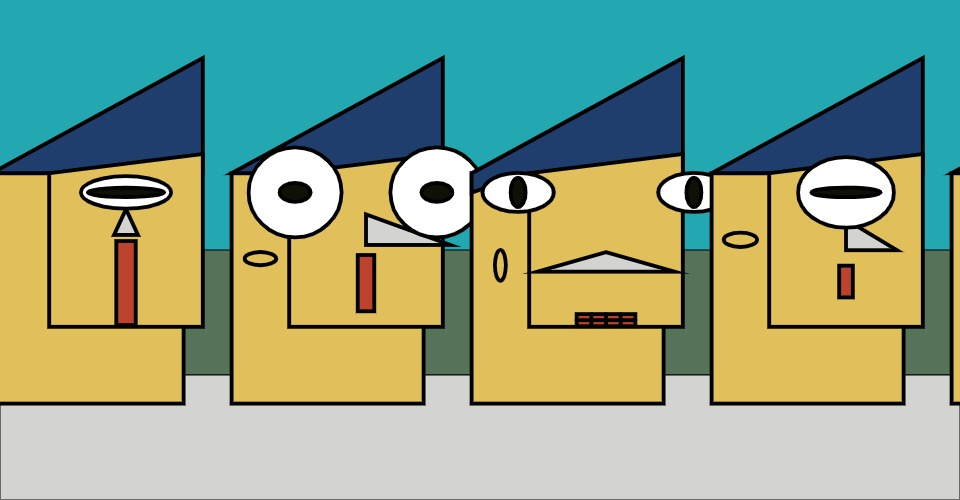
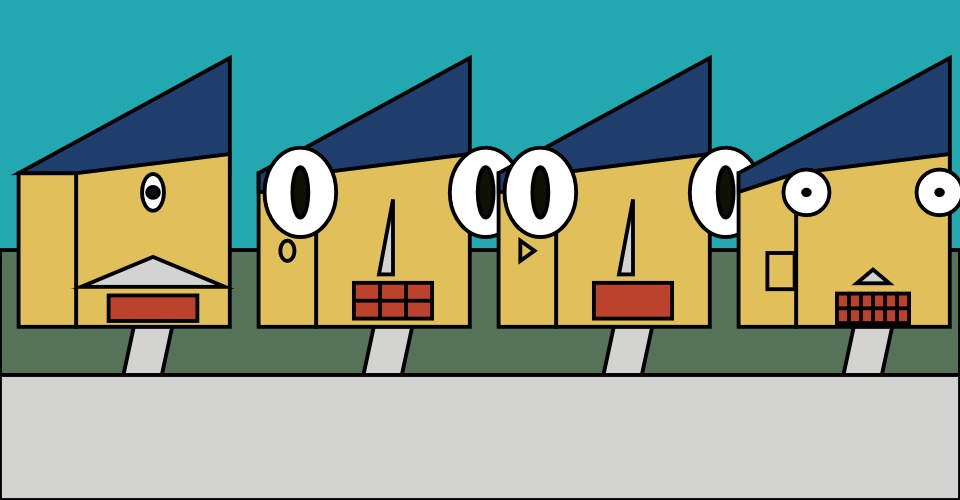
fixed faces having neck bug and added paths

diff --git a/arrangement.js b/arrangement.js
@@ -14,7 +14,9 @@ const millisPerSwap = 3000;
 
 let faceList=[];
 const numberOfFaces=6;
-let scrollSpeed=3;
+const scrollSpeed=3;
+const topOfGrass=canvasHeight/2;
+const topOfRoad=canvasHeight*.75;
 function setup () {
   
   // create the drawing canvas, save the canvas element
@@ -41,15 +43,13 @@ function changeRandomSeed() {
   
   
 }
-function drawBackground(){
-  background(myBgCol);
-  let topOfGrass=height/2;
-  let topOfRoad=height*.75;
-  rectMode(CORNERS);
-  fill(green);
-  rect(0,topOfGrass,canvasWidth,topOfRoad);
-  fill(grey);
-  rect(0,topOfRoad,canvasWidth,height);
+
+
+function drawPath(bottomOfFaceY){
+  strokeWeight(myStrokeWeight);
+  let pathWidth=2;
+  let pathChangeInX=80;
+  quad(-pathWidth/2,bottomOfFaceY,+pathWidth/2,bottomOfFaceY,+pathWidth/2-pathChangeInX,topOfRoad,-pathWidth/2-pathChangeInX,topOfRoad);
 }
 
 
@@ -67,28 +67,50 @@ function draw () {
 
   // reset the random number generator each time draw is called
   randomSeed(curRandomSeed);
+  let face_size = canvasWidth / 5;
+  let face_scale = face_size / 10;
 
   // clear screen
   
-  drawBackground();
+  //sky:
+  background(myBgCol);
+ 
+  
+  //grass:
+  rectMode(CORNERS);
+  strokeWeight(1);
+  fill(green);
+  strokeWeight(myStrokeWeight*face_scale);
+  rect(0,topOfGrass,width+10,topOfRoad);
 
-  let face_size = canvasWidth / 5;
-  let face_scale = face_size / 10;
+
+  
   for(let i=0; i<faceList.length; i++) {
     push();
   
     translate(faceList[i].faceX,height/2);
     scale(face_scale);
+    drawPath(faceList[i].headHeight/2);
+    
     faceList[i].drawFace();
+    
     faceList[i].faceX-=scrollSpeed;
     pop();
+    fill(grey);
+    strokeWeight(myStrokeWeight*face_scale);
+    rect(0,topOfRoad,width+10,height+5);
+    
   }
+  rectMode(CORNERS);
+    
+    
   if(faceList[0].faceX<=-canvasWidth/4){
     faceList.splice(0,1);
     let face=new Face();
     face.faceX=faceList.length*width/4;
     faceList.push(face);
   }
+  
   
   
 }

diff --git a/face_code.js b/face_code.js
@@ -61,8 +61,7 @@ const myBgCol=[35,168,178];//light blue
 const green=[86,115,90];
 
 class Face{
-  //colourList=[red,yellow,blue,grey];
-  
+ 
   headHeight=8;
   headWidth=8; 
   
@@ -84,11 +83,6 @@ class Face{
   noseCol=grey;
   
   constructor(){
-    // this.colourList.sort(() => Math.random() - 0.5);//shuffles the array
-    // this.noseCol=this.colourList[0];
-    // this.mouthColour=this.colourList[1];
-    // this.skinColour=this.colourList[2];
-    // this.hairColour=this.colourList[3];
     this.faceX=0;
     this.sideBurn=sideBurns[Math.floor(Math.random() * sideBurns.length)];
     if(this.sideBurn!="none"){
@@ -163,7 +157,7 @@ class Face{
     
   }
   drawEar(){
-   
+    rectMode(CORNER);
     fill(this.skinColour);
     rect(-this.headWidth/2-this.earWidth,-this.headHeight/2,this.earWidth,this.headHeight);
     fill(this.innerEarCol);
@@ -172,7 +166,7 @@ class Face{
       ellipse(-this.headWidth/2-this.earWidth/2,this.earY,this.innerEarWidth,this.innerEarHeight);
     }
     else if(this.earShape=="square"){
-      rectMode(CENTER);
+      
       rect(-this.headWidth/2-this.earWidth/2,this.earY,this.innerEarWidth,this.innerEarHeight);
     }
     else if(this.earShape=="triangle"){

diff --git a/README.md b/README.md
@@ -1,1 +1,1 @@
-I have added some background colours to make it more streetlike. for some reason this makes the faces have a neck which is a bug. 
+I have fixed the bug meaning that the faces had necks whic was me just not setting rectmode in the ear function. I havealso added these paths to the houses. 
